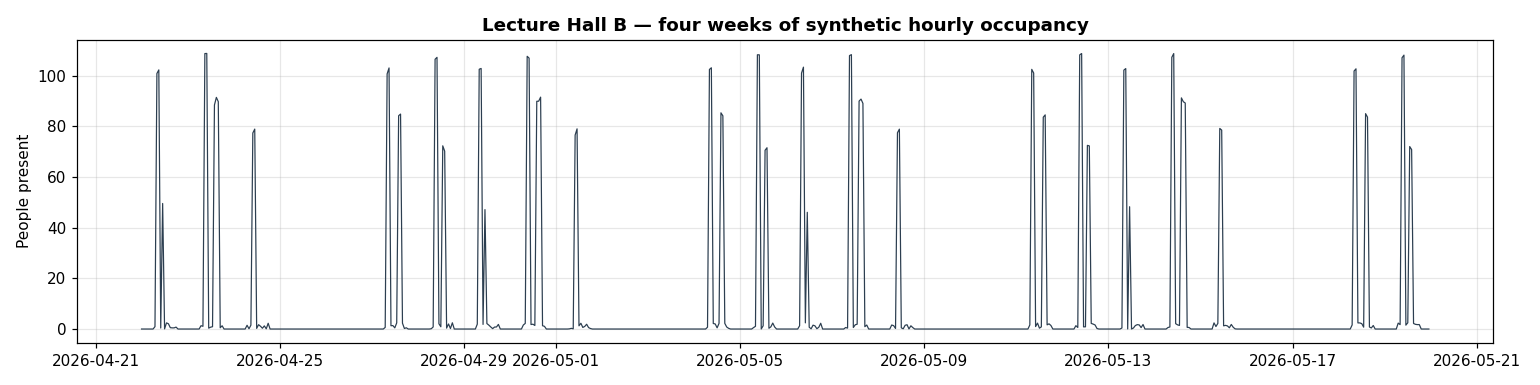
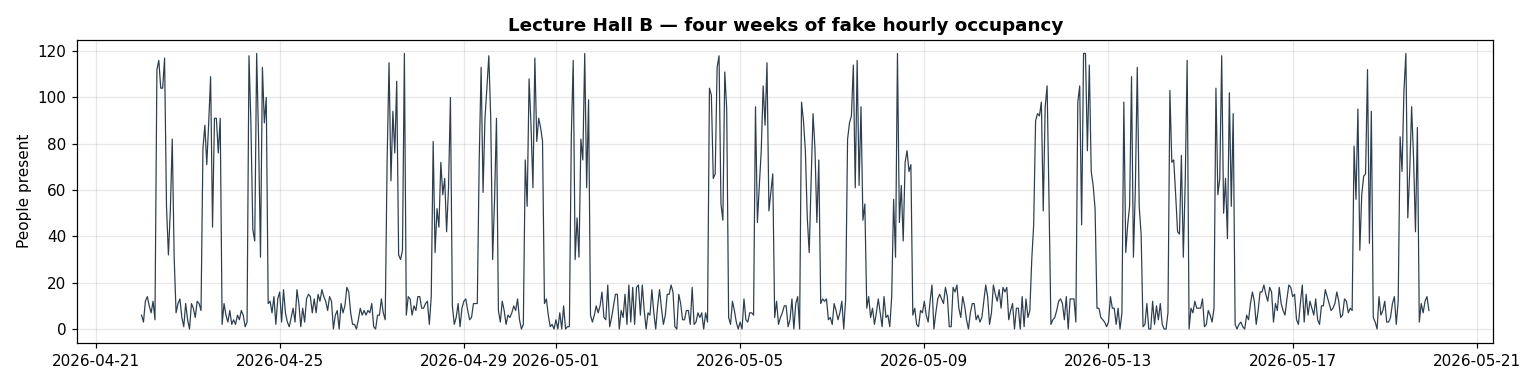
Add the coming week forecast

diff --git a/prophet_demo.py b/prophet_demo.py
@@ -1,29 +1,20 @@
 """
 Rewatt x Prophet Demo
 =====================
-Forecasts tomorrow's hourly occupancy for "Lecture Hall B" from four weeks of
-synthetic timetable history, then derives the optimal AC-shutdown trigger.
+Uses four weeks of fake hourly occupancy data for "Lecture Hall B" to:
+  - Forecast the next 7 days  -> forecast_week.png
+  - Forecast a single day     -> forecast_day.png
 
-Prophet understands day-of-week patterns natively, so Monday morning peaks,
-Friday light loads, and empty weekends are all learnt automatically.
+Prophet understands day-of-week and Malaysia public holidays natively.
 
 HOW TO RUN (VS Code)
 --------------------
-1. Open a terminal in VS Code (Ctrl+`) and create a virtual environment:
-     python -m venv .venv
+1. Open a terminal in VS Code (Ctrl+`) and activate the virtual environment:
      .venv\Scripts\activate          # Windows
      source .venv/bin/activate       # macOS / Linux
 2. Install dependencies:
      pip install -r requirements.txt
-3. Open this file in VS Code. Each `# %%` block is a cell.
-   Click "Run Cell" above each block, or hit Shift+Enter to run cell-by-cell.
-
-WHAT YOU GET
-------------
-- history.png  : four weeks of synthetic lecture-hall occupancy
-- forecast.png : history + Prophet forecast + shutdown marker
-- Printed line you can read out during the pitch:
-    "ACTION: Schedule AC shutdown at HH:MM on <Weekday>"
+3. Run: python prophet_demo.py
 """
 
 # %% [markdown]
@@ -41,54 +32,32 @@ plt.rcParams["figure.dpi"] = 110
 
 
 # %% [markdown]
-# ## 2. Generate four weeks of synthetic timetable data
+# ## 2. Generate four weeks of fake occupancy data
 #
-# Lecture Hall B, capacity 120. A weekday-specific timetable (a real
-# WEEKLY pattern). DAYS=28 means the loop walks four calendar weeks, so
-# weeks 2-4 automatically replay week 1's schedule with fresh small
-# random noise. Weekends are empty; that's the AC-shutdown opportunity.
+# No timetable — just random headcounts that follow a realistic pattern:
+#   Weekday daytime (8am-6pm): 30-120 people
+#   Weekday nighttime        : 0-15  people
+#   Weekend (all hours)      : 0-20  people
 
 # %%
-START = datetime(2026, 4, 22, 0, 0)   # a Wednesday -> 28 days later
-                                      # history ends Tue, so the
-                                      # forecast day lands on a WEDNESDAY
-DAYS  = 28
-HOURS = DAYS * 24
+START    = datetime(2026, 4, 22, 0, 0)
+DAYS     = 28
+HOURS    = DAYS * 24
 CAPACITY = 120
-
-# (weekday, hour_start, hour_end, occupancy_fraction)
-# weekday: 0=Mon ... 4=Fri. SAT/SUN (5/6) have no entries -> completely empty.
-TIMETABLE = [
-    (0,  8, 10, 0.85),  # Mon 08-10  WIA1003
-    (0, 14, 16, 0.70),  # Mon 14-16  WIX1002
-    (1,  9, 11, 0.90),  # Tue 09-11  WIA1001
-    (1, 13, 15, 0.60),  # Tue 13-15  WIX1005
-    (2,  8, 10, 0.85),  # Wed 08-10  WIA1003
-    (2, 11, 12, 0.40),  # Wed 11-12  Seminar
-    (3,  9, 11, 0.90),  # Thu 09-11  Physics
-    (3, 14, 17, 0.75),  # Thu 14-17  Engineering Studio
-    (4, 10, 12, 0.65),  # Fri 10-12  Elective  <- only ONE class on Friday
-    # (no Sat/Sun entries -> weekends totally empty)
-]
 
 records = []
 for h in range(HOURS):
     ts = START + timedelta(hours=h)
     wd, hh = ts.weekday(), ts.hour
 
-    occ = 0.0
-    for d, hs, he, frac in TIMETABLE:
-        if wd == d and hs <= hh < he:
-            target = CAPACITY * frac
-            noise  = np.random.normal(0, 1)
-            occ = max(0.0, target + noise)
-            break
+    if wd >= 5:                          # weekend
+        occ = np.random.randint(0, 20)
+    elif 8 <= hh < 18:                   # weekday daytime
+        occ = np.random.randint(30, CAPACITY)
+    else:                                # weekday nighttime
+        occ = np.random.randint(0, 15)
 
-    # Ambient: cleaners / passers-by during weekday daytime
-    if wd < 5 and 7 <= hh <= 18 and occ == 0:
-        occ = max(0.0, np.random.uniform(0, 2.5))
-
-    records.append({"timestamp": ts, "occupancy": occ})
+    records.append({"timestamp": ts, "occupancy": float(occ)})
 
 df = pd.DataFrame(records)
 print(df.head(12).to_string(index=False))
@@ -101,7 +70,7 @@ print(f"\nTotal hours of history: {len(df)}")
 # %%
 fig, ax = plt.subplots(figsize=(14, 3.5))
 ax.plot(df["timestamp"], df["occupancy"], lw=0.8, color="#2c3e50")
-ax.set_title("Lecture Hall B — four weeks of synthetic hourly occupancy",
+ax.set_title("Lecture Hall B — four weeks of fake hourly occupancy",
              weight="bold")
 ax.set_ylabel("People present")
 ax.grid(alpha=0.3)
@@ -112,19 +81,15 @@ plt.show()
 
 # %% [markdown]
 # ## 4. Fit Prophet model
-#
-# Prophet requires columns named `ds` (datetime) and `y` (value).
-# weekly_seasonality and daily_seasonality let it learn day-of-week
-# and hour-of-day patterns from the four weeks of history.
 
 # %%
 prophet_df = df.rename(columns={"timestamp": "ds", "occupancy": "y"})
 
 model = Prophet(
-    weekly_seasonality=True,   # learns Mon-Sun pattern
-    daily_seasonality=True,    # learns hour-of-day pattern
+    weekly_seasonality=True,
+    daily_seasonality=True,
     seasonality_mode="additive",
-    interval_width=0.80,       # 80% confidence band
+    interval_width=0.80,
 )
 model.add_country_holidays(country_name="MY")  # Malaysia public holidays
 model.fit(prophet_df)
@@ -132,92 +97,82 @@ print("Prophet model fitted.")
 
 
 # %% [markdown]
-# ## 5. Forecast tomorrow's 24 hours
+# ## 5. Forecast — single day (next 24 hours)
 
 # %%
-last_ts = df["timestamp"].iloc[-1]
-future_ts = [last_ts + timedelta(hours=i + 1) for i in range(24)]
+last_ts    = df["timestamp"].iloc[-1]
+future_day = [last_ts + timedelta(hours=i + 1) for i in range(24)]
 
-future_df = pd.DataFrame({"ds": future_ts})
-forecast  = model.predict(future_df)
+forecast_day = model.predict(pd.DataFrame({"ds": future_day}))
+pred_day     = np.maximum(forecast_day["yhat"].values, 0)
+lower_day    = np.maximum(forecast_day["yhat_lower"].values, 0)
+upper_day    = np.maximum(forecast_day["yhat_upper"].values, 0)
 
-predictions = np.maximum(forecast["yhat"].values, 0)
-pred_lower  = np.maximum(forecast["yhat_lower"].values, 0)
-pred_upper  = np.maximum(forecast["yhat_upper"].values, 0)
-
-print(f"Hour-by-hour forecast for {future_ts[0]:%A, %Y-%m-%d}:")
-for ts, p in zip(future_ts, predictions):
+print(f"\nHour-by-hour forecast for {future_day[0]:%A, %Y-%m-%d}:")
+for ts, p in zip(future_day, pred_day):
     tag = "  <- likely empty" if p < 5 else ""
-    print(f"  {ts:%a %m-%d %H:%M} : {p:5.1f} people{tag}")
+    print(f"  {ts:%H:%M} : {p:5.1f} people{tag}")
+
+hour_labels = [ts.strftime("%H:%M") for ts in future_day]
+x_pos = range(24)
+
+fig, ax = plt.subplots(figsize=(14, 5))
+ax.bar(x_pos, pred_day, color="#e74c3c", alpha=0.7, label="Forecast")
+ax.fill_between(x_pos, lower_day, upper_day,
+                alpha=0.2, color="#e74c3c", label="80% confidence band")
+ax.set_xticks(list(x_pos))
+ax.set_xticklabels(hour_labels, rotation=45, ha="right", fontsize=8)
+ax.set_title(f"Lecture Hall B — Single Day Forecast: {future_day[0]:%A, %d %B %Y}",
+             fontsize=13, weight="bold")
+ax.set_ylabel("People present")
+ax.legend(loc="upper left")
+ax.grid(alpha=0.3, axis="y")
+plt.tight_layout()
+plt.savefig("forecast_day.png")
+plt.show()
+print("Saved: forecast_day.png")
 
 
 # %% [markdown]
-# ## 6. Pitch chart — history + forecast + AC-shutdown trigger
+# ## 6. Forecast — whole week (next 7 days)
 
 # %%
-SHUTDOWN_THRESHOLD = 5     # < 5 people = effectively empty
-shutdown_ts = None
-for i in range(len(predictions) - 1):
-    if predictions[i] < SHUTDOWN_THRESHOLD and predictions[i + 1] < SHUTDOWN_THRESHOLD:
-        shutdown_ts = future_ts[i] - timedelta(minutes=10)
-        break
+future_week = [last_ts + timedelta(hours=i + 1) for i in range(7 * 24)]
 
-fig, ax = plt.subplots(figsize=(14, 5))
+forecast_week = model.predict(pd.DataFrame({"ds": future_week}))
+pred_week     = np.maximum(forecast_week["yhat"].values, 0)
+lower_week    = np.maximum(forecast_week["yhat_lower"].values, 0)
+upper_week    = np.maximum(forecast_week["yhat_upper"].values, 0)
 
-# Show last 3 days of history for visual context
-recent = df.iloc[-72:]
-ax.plot(recent["timestamp"], recent["occupancy"],
-        color="#2c3e50", lw=1.4, label="History (last 3 days)")
+print("\nHour-by-hour forecast for the next 7 days:")
+for day in range(7):
+    day_ts    = future_week[day * 24]
+    day_preds = pred_week[day * 24:(day + 1) * 24]
+    day_times = future_week[day * 24:(day + 1) * 24]
+    print(f"\n  --- {day_ts:%A, %Y-%m-%d} ---")
+    for ts, p in zip(day_times, day_preds):
+        tag = "  <- likely empty" if p < 5 else ""
+        print(f"    {ts:%H:%M} : {p:5.1f} people{tag}")
 
-# Forecast line
-ax.plot(future_ts, predictions, color="#e74c3c", lw=2.4,
-        label="Prophet forecast (next 24 h)")
+fig, ax = plt.subplots(figsize=(16, 5))
+ax.plot(future_week, pred_week, color="#2980b9", lw=2,
+        label="Prophet forecast (7 days)")
+ax.fill_between(future_week, lower_week, upper_week,
+                alpha=0.15, color="#2980b9", label="80% confidence band")
 
-# Confidence band (80th percentile)
-ax.fill_between(future_ts, pred_lower, pred_upper,
-                alpha=0.15, color="#e74c3c", label="80% confidence band")
+# Day boundary lines
+for day in range(1, 7):
+    boundary = future_week[day * 24]
+    ax.axvline(boundary, color="gray", ls="--", lw=0.8, alpha=0.5)
+    ax.text(boundary, ax.get_ylim()[1] * 0.95,
+            boundary.strftime("%a"), ha="center", fontsize=8, color="gray")
 
-# Shutdown trigger marker
-if shutdown_ts is not None:
-    ax.axvline(shutdown_ts, color="#27ae60", ls="--", lw=2.2,
-               label=f"AC SHUTDOWN @ {shutdown_ts.strftime('%H:%M')}")
-    ax.annotate(
-        f"AC OFF\n{shutdown_ts.strftime('%a %H:%M')}",
-        xy=(shutdown_ts, ax.get_ylim()[1] * 0.85),
-        xytext=(10, 0), textcoords="offset points",
-        color="#27ae60", weight="bold", fontsize=11,
-    )
-
-ax.set_title(
-    f"Rewatt x Prophet — Occupancy Forecast for {future_ts[0]:%A %Y-%m-%d}, "
-    f"Lecture Hall B",
-    fontsize=13, weight="bold")
+ax.set_title("Lecture Hall B — 7-Day Occupancy Forecast",
+             fontsize=13, weight="bold")
 ax.set_ylabel("People present")
 ax.legend(loc="upper left")
 ax.grid(alpha=0.3)
 plt.tight_layout()
-plt.savefig("forecast.png")
+plt.savefig("forecast_week.png")
 plt.show()
-
-
-# %% [markdown]
-# ## 7. The line you read out during the pitch
-
-# %%
-if shutdown_ts is not None:
-    next_busy_ts = None
-    for i, p in enumerate(predictions):
-        if future_ts[i] > shutdown_ts and p >= SHUTDOWN_THRESHOLD:
-            next_busy_ts = future_ts[i]
-            break
-
-    msg = (
-        f"\n>>> ACTION: Lecture Hall B will be empty from "
-        f"{shutdown_ts.strftime('%H:%M on %A')}"
-    )
-    if next_busy_ts is not None:
-        msg += f" until {next_busy_ts.strftime('%H:%M')}"
-    msg += " - schedule AC shutdown.\n"
-    print(msg)
-else:
-    print("\n>>> No multi-hour empty window detected in the next 24 h.")
+print("Saved: forecast_week.png")
